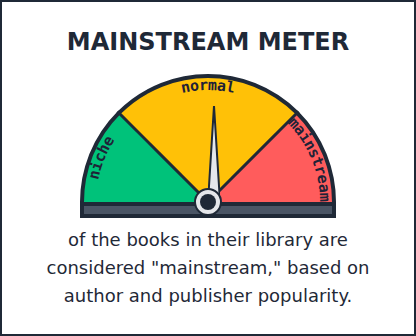
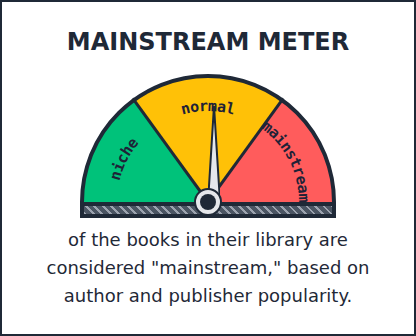
Refine gauge: 30/40/30 split, inward labels, cross-hatched base
- Adjusted segments to 30/40/30 (niche/normal/mainstream) so the
  "mainstream" label fits comfortably in its segment
- Pulled text labels inward from the arc edge using a smaller radius
  SVG path (95 vs 116) for better readability
- Added diagonal cross-hatching to the base rectangle matching the
  number line component's visual style

https://claude.ai/code/session_01BLauoXfoy6BA9xQ8LfgS1T

diff --git a/core/templates/core/partials/dna/mainstream_gauge_card.html b/core/templates/core/partials/dna/mainstream_gauge_card.html
@@ -77,20 +77,20 @@
                 <div class="absolute top-0 left-0 h-64 w-64 rounded-full border-4 border-brand-text"
                     style="background-image: conic-gradient(
                         from 180deg,
-                        #00c27a 0% 37.5%,    /* Niche: score 0-25% → conic 25-37.5% visible */
-                        #ffc107 37.5% 62.5%, /* Normal: score 25-75% → conic 37.5-62.5% visible */
-                        #ff5c5c 62.5% 100%   /* Mainstream: score 75-100% → conic 62.5-75% visible */
+                        #00c27a 0% 40%,      /* Niche: score 0-30% → conic 25-40% visible */
+                        #ffc107 40% 60%,     /* Normal: score 30-70% → conic 40-60% visible */
+                        #ff5c5c 60% 100%     /* Mainstream: score 70-100% → conic 60-75% visible */
                         );">
                 </div>
             </div>
 
-         <!-- Border at 25% mark (niche/normal boundary) -->
+         <!-- Border at 30% mark (niche/normal boundary) -->
             <div class="absolute bottom-0 left-1/2 h-32 w-0.75 origin-bottom -translate-x-1/2 bg-brand-text"
-                 style="transform: rotate(-45deg);"></div>
+                 style="transform: rotate(-36deg);"></div>
 
-         <!-- Border at 75% mark (normal/mainstream boundary) -->
+         <!-- Border at 70% mark (normal/mainstream boundary) -->
             <div class="absolute bottom-0 left-1/2 h-32 w-0.75 origin-bottom -translate-x-1/2 bg-brand-text"
-                 style="transform: rotate(45deg);"></div>
+                 style="transform: rotate(36deg);"></div>
 
 
   
@@ -98,21 +98,23 @@
             <!-- Layer 2: SVG for Text (Not clipped, sits on top) -->
             <svg class="absolute top-0 left-0 h-64 w-64 z-10" viewBox="0 0 256 256" overflow="visible">
                 <defs>
-                    <path id="semicircle" d="M 12,128 A 116,116 0 0,1 244,128" fill="none"/>
+                    <!-- Smaller radius (95 vs 116) to bring labels inward from the arc edge -->
+                    <path id="semicircle" d="M 33,128 A 95,95 0 0,1 223,128" fill="none"/>
                 </defs>
                 <text fill="#1f2237" dy="4" font-family="VT323, monospace" font-size="15" font-weight="bold">
-                    <textPath href="#semicircle" startOffset="12.5%" text-anchor="middle">niche</textPath>
+                    <textPath href="#semicircle" startOffset="15%" text-anchor="middle">niche</textPath>
                 </text>
                 <text fill="#1f2237" dy="4" font-family="VT323, monospace" font-size="15" font-weight="bold">
                     <textPath href="#semicircle" startOffset="50%" text-anchor="middle">normal</textPath>
                 </text>
                 <text fill="#1f2237" dy="4" font-family="VT323, monospace" font-size="15" font-weight="bold">
-                    <textPath href="#semicircle" startOffset="87.5%" text-anchor="middle">mainstream</textPath>
+                    <textPath href="#semicircle" startOffset="85%" text-anchor="middle">mainstream</textPath>
                 </text>
             </svg>
 
 
-            <div class="absolute -bottom-4 border-brand-text border-4 left-0 w-full h-4 bg-gray-600 z-[15]"></div>
+            <div class="absolute -bottom-4 border-brand-text border-4 left-0 w-full h-4 z-[15]"
+                 style="background: repeating-linear-gradient(45deg, #9ca3af 0px, #9ca3af 2px, #4b5563 2px, #4b5563 6px);"></div>
 
             <!-- Note: Increased width to w-3 to make the taper more visible -->
             <div class="absolute bottom-0 left-1/2 h-24 w-3 origin-bottom  z-20"
